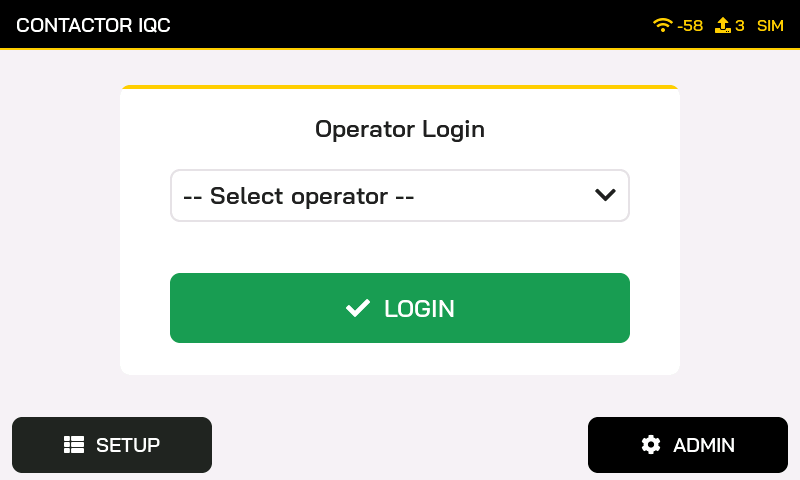
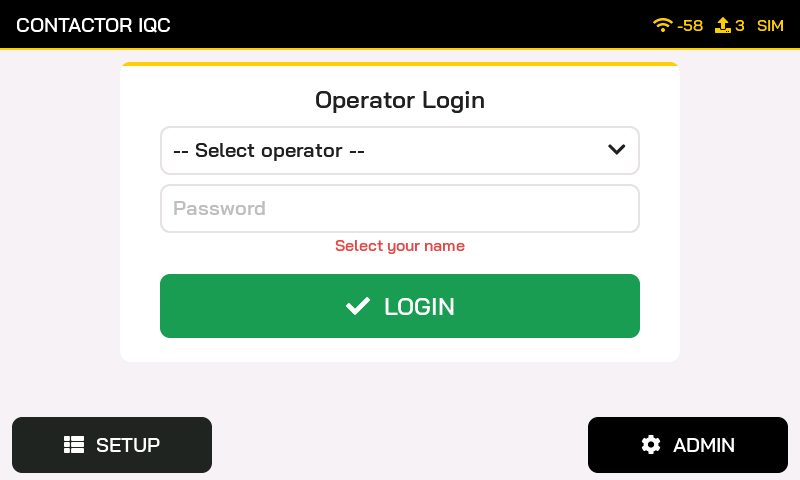
Operator passwords from the Sheet, factory WiFi via secrets.h
- Login screen: password field with keyboard; checked against column B of
  the Operators tab (last synced copy, so it also works offline);
  empty password in the Sheet = no password
- Sheets sync reads Operators!A2:B11 and caches the passwords
- secrets.h can define WIFI_SSID / WIFI_PASS, used until other
  credentials are saved on the Admin screen
- Template and setup guide updated with the password column

Claude-Session: https://claude.ai/code/session_01LXTvxhwrQucbbkRLzNXi3e

Changed region(s): [[0.1562, 0.125, 0.8438, 0.5312], [0.1875, 0.5625, 0.8125, 0.7188], [0.4375, 0.625, 0.5625, 0.6562]]

diff --git a/hmi/src/ui/ui_login.cpp b/hmi/src/ui/ui_login.cpp
@@ -2,16 +2,64 @@
 #include "ui.h"
 #include "../app_data.h"
 
-static lv_obj_t *s_dd = nullptr;
+static const lv_coord_t KB_H = 230;
 
-static void login_cb(lv_event_t *) {
-  uint16_t sel = lv_dropdown_get_selected(s_dd);
-  if (sel == 0 || sel > (uint16_t)g_operatorCount) {
-    ui_toast("Login", "Please select your name.");
+static lv_obj_t *s_dd = nullptr;
+static lv_obj_t *s_pw = nullptr;
+static lv_obj_t *s_msg = nullptr;
+static lv_obj_t *s_kb = nullptr;
+static lv_obj_t *s_footer = nullptr;
+
+static void show_msg(const char *txt, lv_color_t color) {
+  lv_label_set_text(s_msg, txt);
+  lv_obj_set_style_text_color(s_msg, color, 0);
+}
+
+// Operator and password are checked against the "Operators" tab of the Google
+// Sheet (last synced copy, so login also works offline).
+static void try_login() {
+  int op = (int)lv_dropdown_get_selected(s_dd) - 1;
+  if (op < 0 || op >= g_operatorCount) {
+    show_msg("Select your name", COL_FAIL);
     return;
   }
-  strlcpy(g_app.operatorName, g_operators[sel - 1], sizeof(g_app.operatorName));
+  if (!app_data_check_password(op, lv_textarea_get_text(s_pw))) {
+    lv_textarea_set_text(s_pw, "");
+    show_msg("Wrong password", COL_FAIL);
+    return;
+  }
+  strlcpy(g_app.operatorName, g_operators[op], sizeof(g_app.operatorName));
   ui_show_model();
+}
+
+static void login_cb(lv_event_t *) { try_login(); }
+
+static void hide_kb() {
+  lv_keyboard_set_textarea(s_kb, nullptr);
+  lv_obj_add_flag(s_kb, LV_OBJ_FLAG_HIDDEN);
+  lv_obj_clear_flag(s_footer, LV_OBJ_FLAG_HIDDEN);
+  lv_obj_clear_state(s_pw, LV_STATE_FOCUSED);
+}
+
+static void pw_event_cb(lv_event_t *e) {
+  lv_event_code_t code = lv_event_get_code(e);
+  if (code == LV_EVENT_FOCUSED) {
+    lv_keyboard_set_textarea(s_kb, s_pw);
+    lv_obj_clear_flag(s_kb, LV_OBJ_FLAG_HIDDEN);
+    lv_obj_add_flag(s_footer, LV_OBJ_FLAG_HIDDEN);
+  } else if (code == LV_EVENT_READY) {  // keyboard tick = login
+    hide_kb();
+    try_login();
+  } else if (code == LV_EVENT_DEFOCUSED || code == LV_EVENT_CANCEL) {
+    hide_kb();
+  } else if (code == LV_EVENT_VALUE_CHANGED) {
+    show_msg("", COL_MUTED);
+  }
+}
+
+static void dd_cb(lv_event_t *) {
+  lv_textarea_set_text(s_pw, "");
+  show_msg("", COL_MUTED);
 }
 
 static void setup_cb(lv_event_t *) { ui_show_setup(ui_show_login); }
@@ -22,12 +70,11 @@ void ui_show_login() {
   ui_header(scr, "CONTACTOR IQC");
   ui_set_current(UI_LOGIN);
 
+  // Card sits high so the password field stays visible above the keyboard
   lv_obj_t *card = lv_obj_create(scr);
-  lv_obj_set_size(card, 560, 290);
-  lv_obj_align(card, LV_ALIGN_CENTER, 0, -10);
+  lv_obj_set_size(card, 560, 300);
+  lv_obj_align(card, LV_ALIGN_TOP_MID, 0, HEADER_H + 12);
   lv_obj_set_style_bg_color(card, COL_CARD, 0);
-  lv_obj_set_style_border_color(card, COL_BORDER, 0);
-  lv_obj_set_style_border_width(card, 1, 0);
   lv_obj_set_style_border_side(card, LV_BORDER_SIDE_TOP, 0);
   lv_obj_set_style_border_width(card, 4, 0);
   lv_obj_set_style_border_color(card, COL_ACCENT, 0);
@@ -36,7 +83,7 @@ void ui_show_login() {
   lv_obj_t *t = lv_label_create(card);
   lv_label_set_text(t, "Operator Login");
   lv_obj_set_style_text_font(t, FONT_L, 0);
-  lv_obj_align(t, LV_ALIGN_TOP_MID, 0, 6);
+  lv_obj_align(t, LV_ALIGN_TOP_MID, 0, 0);
 
   // "-- Select --" followed by one line per operator
   static char opts[(NAME_MAX_LEN + 2) * (MAX_OPERATORS + 1)];
@@ -51,18 +98,39 @@ void ui_show_login() {
   s_dd = lv_dropdown_create(card);
   lv_dropdown_set_options(s_dd, opts);
   lv_dropdown_set_selected(s_dd, preselect);
-  lv_obj_set_width(s_dd, 460);
-  lv_obj_set_style_text_font(s_dd, FONT_L, 0);
-  lv_obj_set_style_text_font(lv_dropdown_get_list(s_dd), FONT_L, 0);
-  lv_obj_align(s_dd, LV_ALIGN_TOP_MID, 0, 60);
+  lv_obj_set_width(s_dd, 480);
+  lv_obj_set_style_text_font(s_dd, FONT_M, 0);
+  lv_obj_set_style_text_font(lv_dropdown_get_list(s_dd), FONT_M, 0);
+  lv_obj_align(s_dd, LV_ALIGN_TOP_MID, 0, 40);
+  lv_obj_add_event_cb(s_dd, dd_cb, LV_EVENT_VALUE_CHANGED, nullptr);
 
-  lv_obj_t *b = ui_btn(card, LV_SYMBOL_OK "  LOGIN", COL_OK, 460, 70, login_cb, nullptr);
+  s_pw = lv_textarea_create(card);
+  lv_textarea_set_one_line(s_pw, true);
+  lv_textarea_set_password_mode(s_pw, true);
+  lv_textarea_set_max_length(s_pw, PASS_MAX_LEN);
+  lv_textarea_set_placeholder_text(s_pw, "Password");
+  lv_obj_set_width(s_pw, 480);
+  lv_obj_set_style_text_font(s_pw, FONT_M, 0);
+  lv_obj_align(s_pw, LV_ALIGN_TOP_MID, 0, 98);
+  lv_obj_add_event_cb(s_pw, pw_event_cb, LV_EVENT_ALL, nullptr);
+
+  s_msg = lv_label_create(card);
+  lv_label_set_text(s_msg, "");
+  lv_obj_align(s_msg, LV_ALIGN_TOP_MID, 0, 150);
+
+  lv_obj_t *b = ui_btn(card, LV_SYMBOL_OK "  LOGIN", COL_OK, 480, 64, login_cb, nullptr);
   lv_obj_set_style_text_font(lv_obj_get_child(b, 0), FONT_L, 0);
-  lv_obj_align(b, LV_ALIGN_BOTTOM_MID, 0, -8);
+  lv_obj_align(b, LV_ALIGN_BOTTOM_MID, 0, 0);
 
-  lv_obj_t *f = ui_footer(scr);
-  ui_btn(f, LV_SYMBOL_LIST "  SETUP", COL_NEUTRAL, 200, BTN_H, setup_cb, nullptr);
-  ui_btn(f, LV_SYMBOL_SETTINGS "  ADMIN", COL_HEADER, 200, BTN_H, admin_cb, nullptr);
+  s_footer = ui_footer(scr);
+  ui_btn(s_footer, LV_SYMBOL_LIST "  SETUP", COL_NEUTRAL, 200, BTN_H, setup_cb, nullptr);
+  ui_btn(s_footer, LV_SYMBOL_SETTINGS "  ADMIN", COL_HEADER, 200, BTN_H, admin_cb, nullptr);
+
+  s_kb = lv_keyboard_create(scr);
+  lv_obj_set_size(s_kb, SCR_W, KB_H);
+  lv_obj_align(s_kb, LV_ALIGN_BOTTOM_MID, 0, 0);
+  lv_obj_set_style_text_font(s_kb, FONT_M, 0);
+  lv_obj_add_flag(s_kb, LV_OBJ_FLAG_HIDDEN);
 
   ui_load(scr);
 }

diff --git a/hmi/src/gsheets.cpp b/hmi/src/gsheets.cpp
@@ -46,6 +46,7 @@ static char s_lastSync[24] = "-";
 static ModelSpec s_newModels[MAX_MODELS];
 static int s_newModelCount = 0;
 static char s_newOps[MAX_OPERATORS][NAME_MAX_LEN + 1];
+static char s_newPass[MAX_OPERATORS][PASS_MAX_LEN + 1];
 static int s_newOpCount = 0;
 static bool s_newData = false;
 
@@ -289,14 +290,19 @@ static int parse_models(JsonArray rows, ModelSpec *out) {
   return n;
 }
 
-static int parse_operators(JsonArray rows, char out[][NAME_MAX_LEN + 1]) {
+// Operators tab: column A = name, column B = password (empty = no password)
+static int parse_operators(JsonArray rows, char out[][NAME_MAX_LEN + 1], char pass[][PASS_MAX_LEN + 1]) {
   int n = 0;
   for (JsonArray row : rows) {
     if (n >= MAX_OPERATORS) break;
     String name = row[0].as<String>();
     name.trim();
     if (!name.length() || name == "null") continue;
-    strlcpy(out[n++], name.c_str(), NAME_MAX_LEN + 1);
+    String pw = row[1].isNull() ? String("") : row[1].as<String>();
+    pw.trim();
+    strlcpy(out[n], name.c_str(), NAME_MAX_LEN + 1);
+    strlcpy(pass[n], pw.c_str(), PASS_MAX_LEN + 1);
+    n++;
   }
   return n;
 }
@@ -324,10 +330,11 @@ static void load_cache() {
   if (err) return;
   static ModelSpec models[MAX_MODELS];
   static char ops[MAX_OPERATORS][NAME_MAX_LEN + 1];
+  static char pass[MAX_OPERATORS][PASS_MAX_LEN + 1];
   int nm = parse_models(doc["specs"].as<JsonArray>(), models);
-  int no = parse_operators(doc["operators"].as<JsonArray>(), ops);
+  int no = parse_operators(doc["operators"].as<JsonArray>(), ops, pass);
   app_data_set_models(models, nm);
-  app_data_set_operators(ops, no);
+  app_data_set_operators(ops, pass, no);
   strlcpy(s_lastSync, doc["synced"] | "-", sizeof(s_lastSync));
   Serial.printf("[sheets] cache loaded: %d models, %d operators (synced %s)\n", nm, no, s_lastSync);
 }
@@ -335,7 +342,7 @@ static void load_cache() {
 static bool do_sync() {
   set_status("Reading Specs");
   String url = String("https://sheets.googleapis.com/v4/spreadsheets/") + GSHEET_ID +
-               "/values:batchGet?ranges=Specs%21A2%3AL9&ranges=Operators%21A2%3AA11&valueRenderOption=UNFORMATTED_VALUE";
+               "/values:batchGet?ranges=Specs%21A2%3AL9&ranges=Operators%21A2%3AB11&valueRenderOption=UNFORMATTED_VALUE";
   String resp;
   int code = api("GET", url, "", resp);
   if (code != 200) {
@@ -352,8 +359,9 @@ static bool do_sync() {
 
   static ModelSpec models[MAX_MODELS];
   static char ops[MAX_OPERATORS][NAME_MAX_LEN + 1];
+  static char pass[MAX_OPERATORS][PASS_MAX_LEN + 1];
   int nm = parse_models(specRows, models);
-  int no = parse_operators(opRows, ops);
+  int no = parse_operators(opRows, ops, pass);
   if (nm == 0) {
     set_status("Error: no valid rows in Specs");
     return false;
@@ -364,7 +372,10 @@ static bool do_sync() {
     Lock l;
     memcpy(s_newModels, models, sizeof(ModelSpec) * nm);
     s_newModelCount = nm;
-    for (int i = 0; i < no; i++) strlcpy(s_newOps[i], ops[i], NAME_MAX_LEN + 1);
+    for (int i = 0; i < no; i++) {
+      strlcpy(s_newOps[i], ops[i], NAME_MAX_LEN + 1);
+      strlcpy(s_newPass[i], pass[i], PASS_MAX_LEN + 1);
+    }
     s_newOpCount = no;
     s_newData = true;
     strlcpy(s_lastSync, now, sizeof(s_lastSync));
@@ -583,7 +594,7 @@ void gsheets_apply_new_data() {
   Lock l;
   if (!s_newData) return;
   app_data_set_models(s_newModels, s_newModelCount);
-  app_data_set_operators(s_newOps, s_newOpCount);
+  app_data_set_operators(s_newOps, s_newPass, s_newOpCount);
   s_newData = false;
 }
 

diff --git a/hmi/src/app_data.cpp b/hmi/src/app_data.cpp
@@ -3,6 +3,7 @@
 ModelSpec g_models[MAX_MODELS];
 int g_modelCount = 0;
 char g_operators[MAX_OPERATORS][NAME_MAX_LEN + 1];
+char g_operatorPass[MAX_OPERATORS][PASS_MAX_LEN + 1];
 int g_operatorCount = 0;
 AppState g_app;
 
@@ -35,15 +36,24 @@ void app_data_set_models(const ModelSpec *models, int count) {
   g_app.modelIdx = -1;
 }
 
-void app_data_set_operators(const char names[][NAME_MAX_LEN + 1], int count) {
+void app_data_set_operators(const char names[][NAME_MAX_LEN + 1], const char pass[][PASS_MAX_LEN + 1], int count) {
   if (count <= 0) return;
   if (count > MAX_OPERATORS) count = MAX_OPERATORS;
-  for (int i = 0; i < count; i++) strlcpy(g_operators[i], names[i], NAME_MAX_LEN + 1);
+  for (int i = 0; i < count; i++) {
+    strlcpy(g_operators[i], names[i], NAME_MAX_LEN + 1);
+    strlcpy(g_operatorPass[i], pass[i], PASS_MAX_LEN + 1);
+  }
   g_operatorCount = count;
+}
+
+bool app_data_check_password(int op, const char *password) {
+  if (op < 0 || op >= g_operatorCount) return false;
+  return strcmp(g_operatorPass[op], password) == 0;
 }
 
 static void add_operator(const char *name) {
   if (g_operatorCount >= MAX_OPERATORS) return;
+  g_operatorPass[g_operatorCount][0] = '\0';  // built-in placeholders have no password
   strlcpy(g_operators[g_operatorCount++], name, NAME_MAX_LEN + 1);
 }
 

diff --git a/hmi/src/net.cpp b/hmi/src/net.cpp
@@ -3,6 +3,16 @@
 #include <Preferences.h>
 #include "net.h"
 
+// Optional factory WiFi from include/secrets.h (git-ignored). Used until other
+// credentials are saved on the Admin screen.
+#if __has_include("secrets.h")
+#include "secrets.h"
+#endif
+#ifndef WIFI_SSID
+#define WIFI_SSID ""
+#define WIFI_PASS ""
+#endif
+
 static const char *PREF_NS = "iqc_net";
 
 void net_begin() {
@@ -11,8 +21,8 @@ void net_begin() {
 
   Preferences prefs;
   prefs.begin(PREF_NS, true);
-  String ssid = prefs.getString("ssid", "");
-  String pass = prefs.getString("pass", "");
+  String ssid = prefs.getString("ssid", WIFI_SSID);
+  String pass = prefs.getString("pass", WIFI_PASS);
   prefs.end();
 
   if (ssid.length()) WiFi.begin(ssid.c_str(), pass.c_str());
@@ -36,7 +46,7 @@ int net_rssi() { return net_connected() ? WiFi.RSSI() : 0; }
 void net_saved_ssid(char *buf, size_t len) {
   Preferences prefs;
   prefs.begin(PREF_NS, true);
-  String ssid = prefs.getString("ssid", "");
+  String ssid = prefs.getString("ssid", WIFI_SSID);
   prefs.end();
   strlcpy(buf, ssid.c_str(), len);
 }

diff --git a/hmi/src/app_data.h b/hmi/src/app_data.h
@@ -30,6 +30,7 @@ struct AppState {
 extern ModelSpec g_models[MAX_MODELS];
 extern int g_modelCount;
 extern char g_operators[MAX_OPERATORS][NAME_MAX_LEN + 1];
+extern char g_operatorPass[MAX_OPERATORS][PASS_MAX_LEN + 1];  // "" = no password
 extern int g_operatorCount;
 extern AppState g_app;
 
@@ -42,4 +43,7 @@ void app_data_default_timings(ModelSpec &m);
 // Replaces models / operators (from the Sheet or its flash cache).
 // The selected model is cleared because its index may have changed.
 void app_data_set_models(const ModelSpec *models, int count);
-void app_data_set_operators(const char names[][NAME_MAX_LEN + 1], int count);
+void app_data_set_operators(const char names[][NAME_MAX_LEN + 1], const char pass[][PASS_MAX_LEN + 1], int count);
+
+// True if the password matches the one stored for this operator (index into g_operators)
+bool app_data_check_password(int op, const char *password);

diff --git a/hmi/include/secrets.example.h b/hmi/include/secrets.example.h
@@ -7,6 +7,10 @@
 // secrets.h is git-ignored: never commit it or share it.
 // ---------------------------------------------------------------------------
 
+// Factory WiFi (used until other credentials are saved on the Admin screen)
+#define WIFI_SSID "your-wifi-name"
+#define WIFI_PASS "your-wifi-password"
+
 // From the Sheet URL: https://docs.google.com/spreadsheets/d/<GSHEET_ID>/edit
 #define GSHEET_ID "paste-the-sheet-id-here"
 

diff --git a/hmi/src/config.h b/hmi/src/config.h
@@ -11,6 +11,7 @@
 #define MAX_OPERATORS 10
 #define SERIAL_MAX_LEN 32    // free-text serial number length
 #define NAME_MAX_LEN 47      // model / operator name length
+#define PASS_MAX_LEN 32      // operator password length
 
 #define ADMIN_PASSWORD "100100"
 

diff --git a/docs/GOOGLE_SHEETS_SETUP.md b/docs/GOOGLE_SHEETS_SETUP.md
@@ -18,7 +18,7 @@ Allow about 30 minutes. You only do this once.
 5. Rename that copy to **Contactor IQC** (top-left title) and delete the uploaded `.xlsx` from Drive.
 6. Check it has 4 tabs: **Specs, Operators, Results, README**.
    - **Specs:** check the 4 models and their limits.
-   - **Operators:** replace `Operator 1…3` with real names (max 10, one per row).
+   - **Operators:** column A = name, column B = login password (max 10 rows; empty password = none).
    - Don't rename tabs or edit header rows.
 7. Copy the **Sheet ID** from the address bar and keep it for Part D:
 
